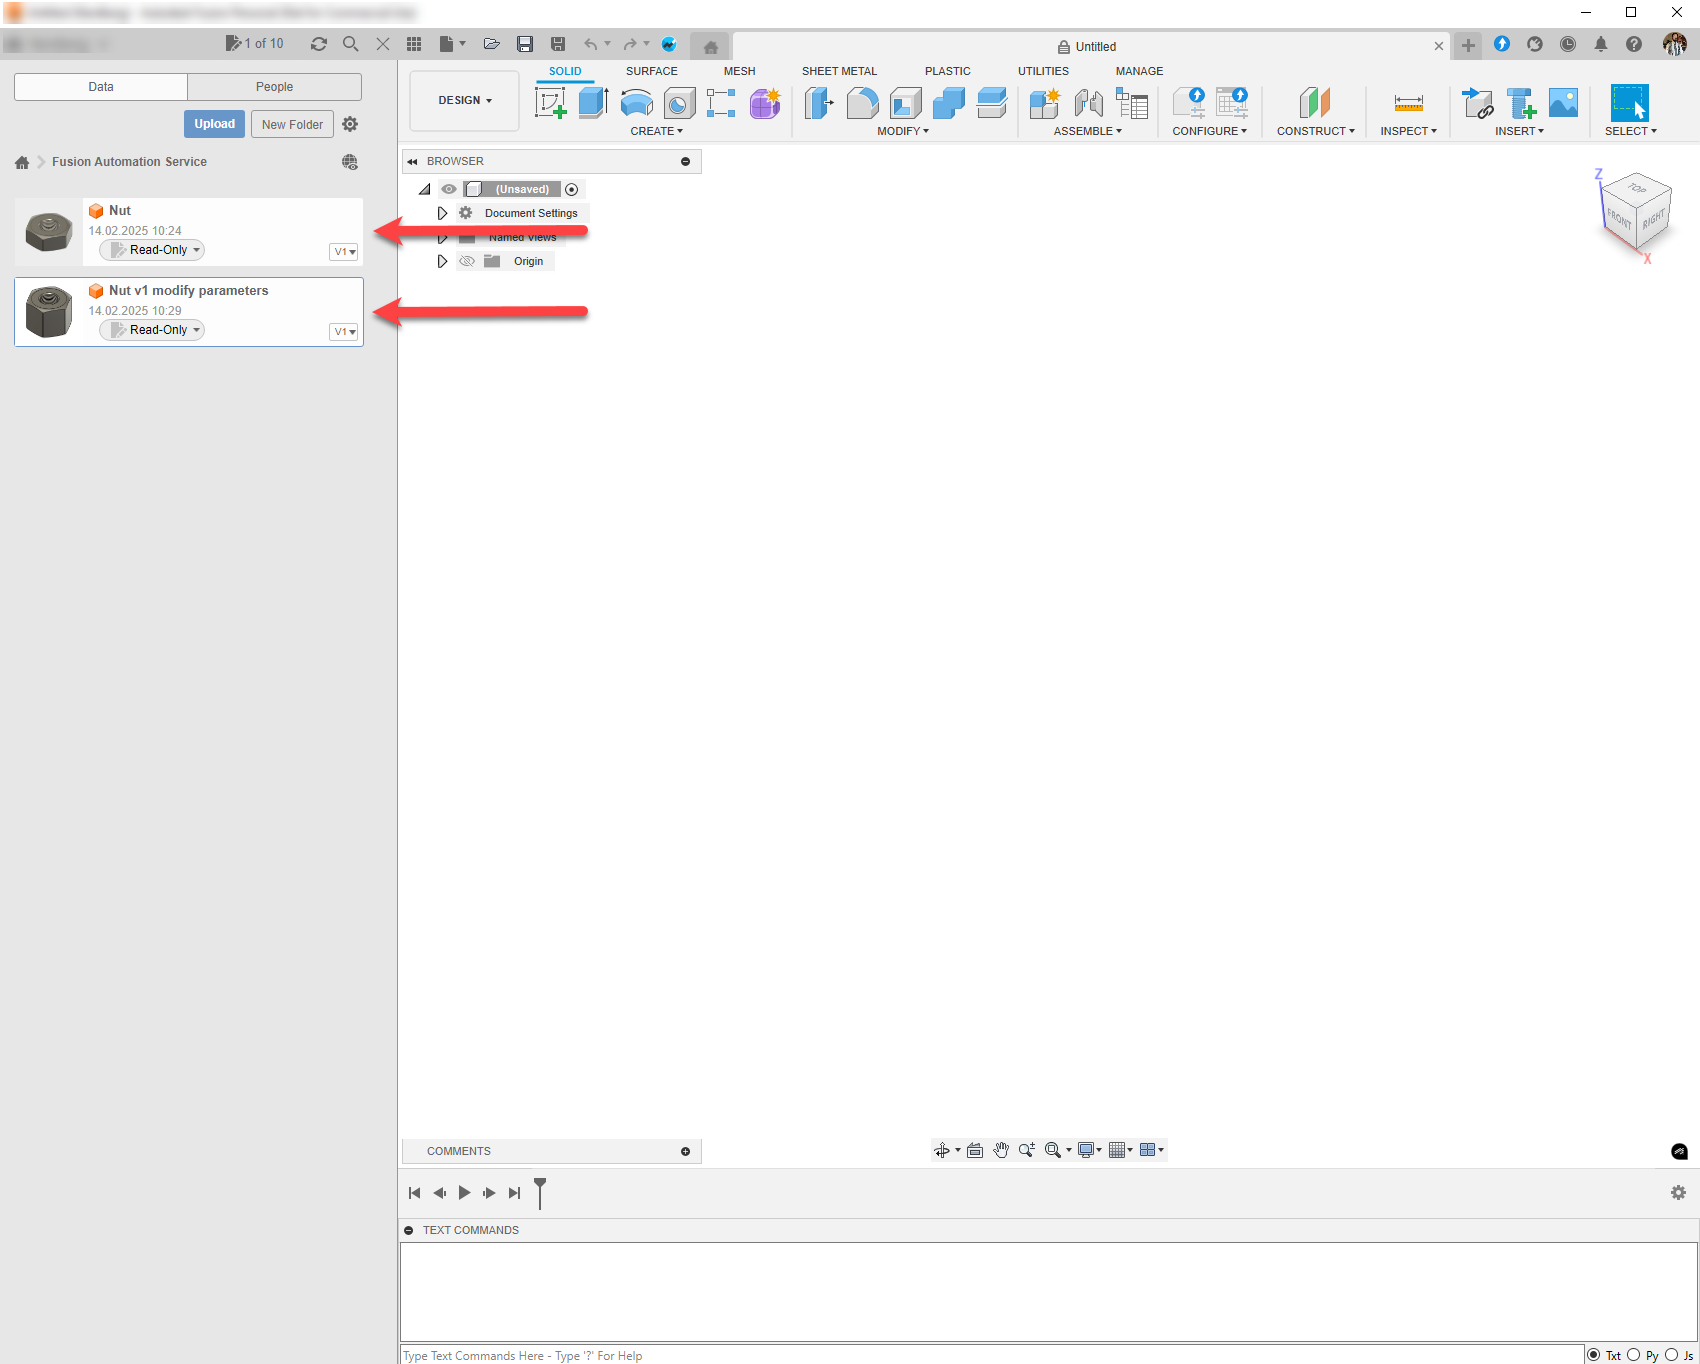
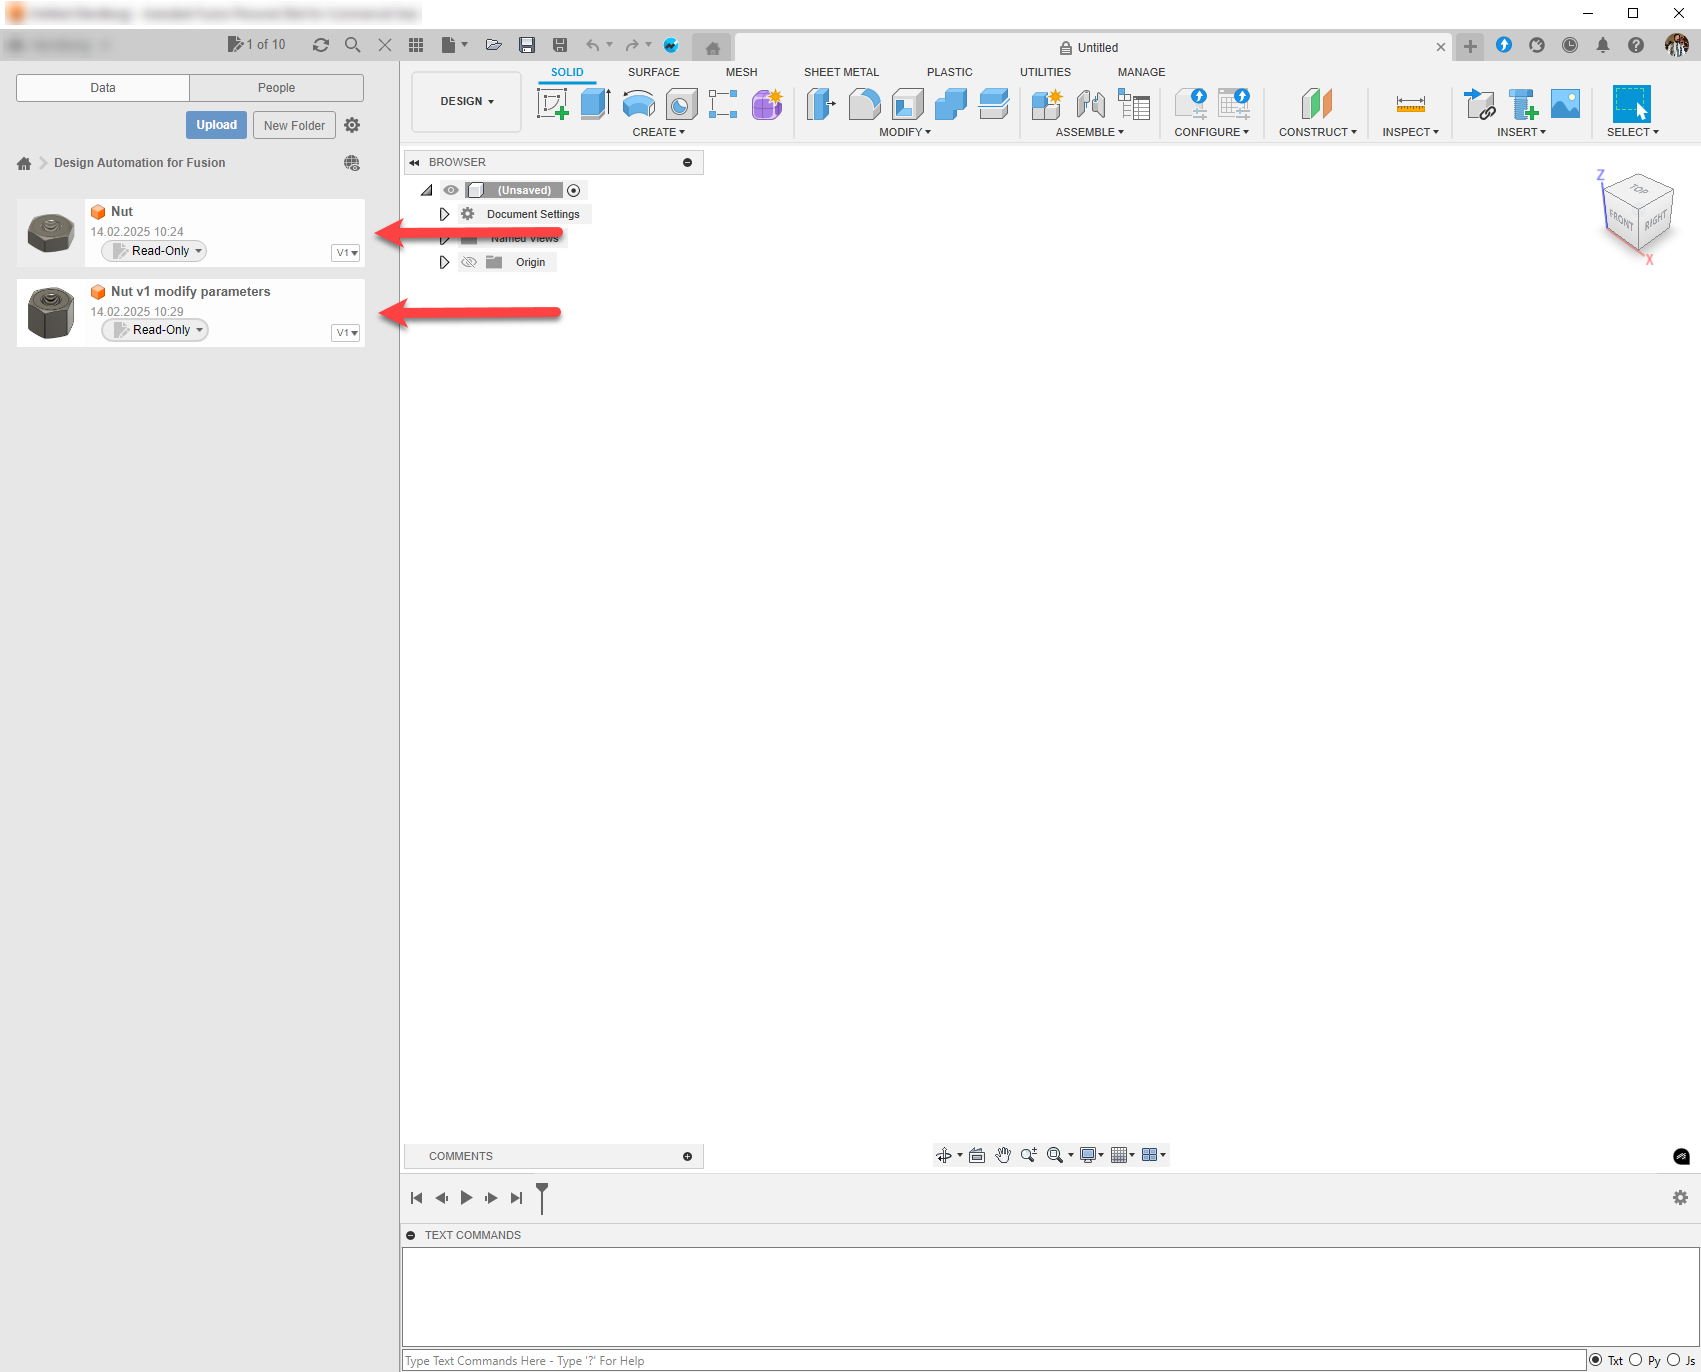
Minor changes

diff --git a/DA4Fusion/walkthrough_data/main.ts b/DA4Fusion/walkthrough_data/main.ts
@@ -97,7 +97,7 @@ function getDocument(
   if (!file) throw Error(`File not found ${fileURN}.`);
   let destinationFolder = defaultFolder(
         app,
-        "Fusion Automation Service",
+        "Design Automation for Fusion",
       );
   let newfile = file.copy(destinationFolder);
   newfile.name = 'Nut'
@@ -119,11 +119,11 @@ function saveDocument(
       destinationFolder.parentProject;
     } catch (e) {
       adsk.log(
-        "Destination folder is not in a project, setting folder to Fusion Automation Service project.",
+        "Destination folder is not in a project, setting folder to Design Automation for Fusion project.",
       );
       destinationFolder = defaultFolder(
         doc.parent,
-        "Fusion Automation Service",
+        "Design Automation for Fusion",
       );
     }
     if (

diff --git a/DA4Fusion/instructions/task-5.md b/DA4Fusion/instructions/task-5.md
@@ -6,11 +6,11 @@ The relationship between an Activity and a WorkItem can be thought of as a “fu
 Named parameters of the Activity have corresponding named arguments of the WorkItem.
 Like in function calls, optional parameters of the Activity can be skipped and left unspecified while posting a WorkItem.
 
-For this exercise, you will apply the ConfigureDesign Activity on a Fusion Project, out of the Fusion Team example files.
+For this exercise, you will apply the ConfigureDesign Activity on a Fusion Design, out of the Fusion Team example files.
 
 ## Generate a Personal Access Token
 
-To get a personal access token (PAT), simply access your autodesk profile via the following link: [Autodesk Security](https://profile.autodesk.com/security) and follow the instructions. The PAT should be of the project "Alpine"
+To get a personal access token (PAT), simply access your autodesk profile via the following link: [Autodesk Security](https://profile.autodesk.com/security) and follow the instructions. Generate a PAT for product scope “Design Automation for Fusion” or “Project Alpine”. Either product scope will work.
 
 The table below describes the different options for authentication and authorization for submitting WorkItems to DA4F.
 

diff --git a/DA4Fusion/instructions/task-6.md b/DA4Fusion/instructions/task-6.md
@@ -1,6 +1,6 @@
 # Task 6 - Open Result in Fusion
 
-Once the WorkItem has completed executing the Activity, Design Automation uploads the resulting file to Fusion Teams. You use Fusion on or machine to check the Result
+Once the WorkItem has completed executing the Activity, Design Automation uploads the resulting file to Fusion Teams. You can use the Fusion desktop client on you local machine to check the result of the WorkItem.
 
 ## Open Result in Fusion
 
@@ -10,7 +10,7 @@ Once the WorkItem has completed executing the Activity, Design Automation upload
 
     ![Fusion Automation Service Project](../images/task6-fusion_fusion_automation_service_project.png "Fusion Automation Service Project")
 
-3. Open the Folder. There should be two designs: `Nut` and `Nut v1 modify parameters`
+3. Open the project. There should be two designs: `Nut` and `Nut v1 modify parameters`
 
     ![Two Designs](../images/task6-fusion_two_desings.png "Two Designs")
 
